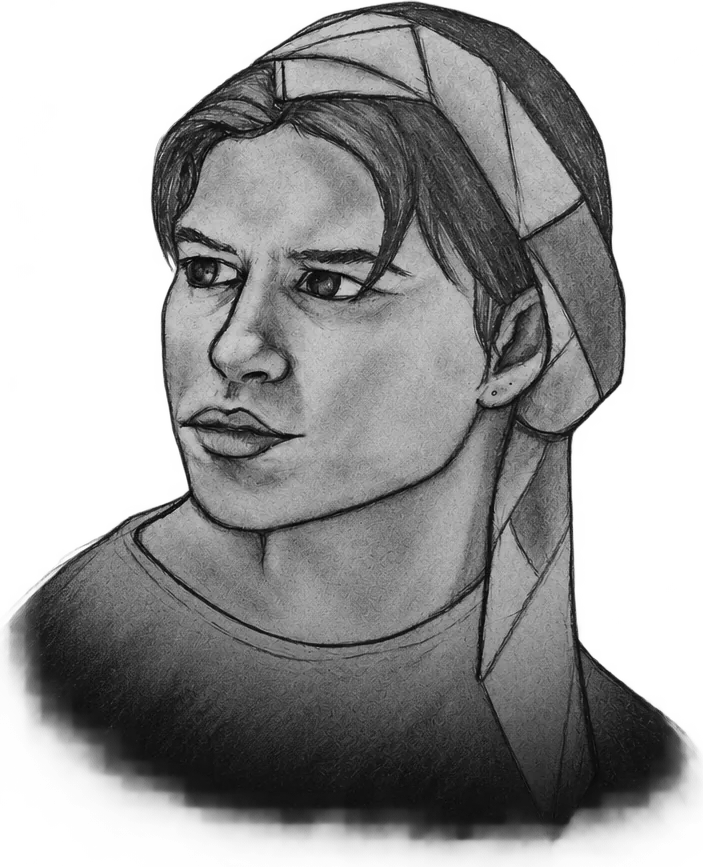
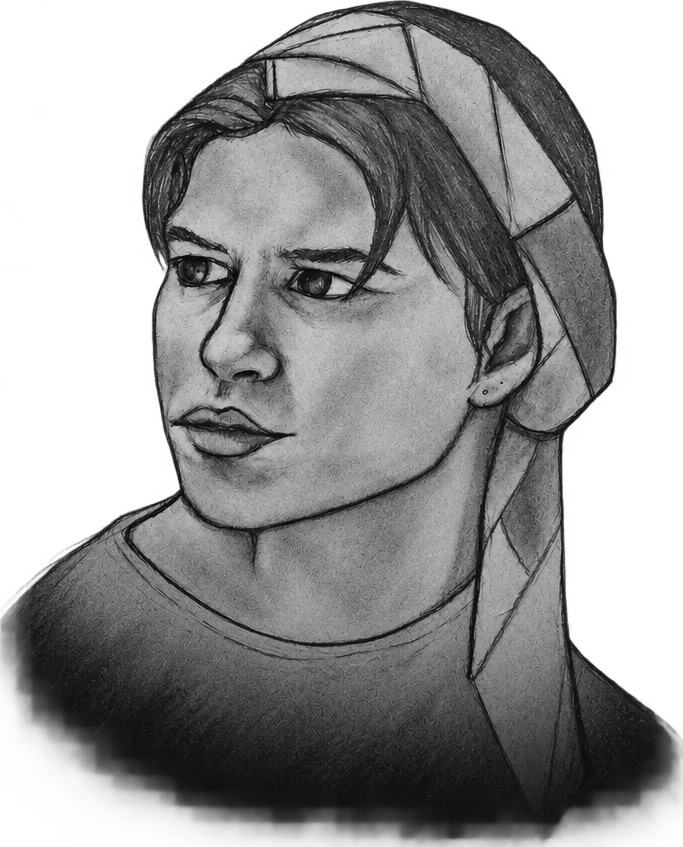
Corregir el recorte y encuadre de los identikits
El trim() de scripts/identikits.mjs usaba el threshold default (10),
demasiado sensible a un pixel suelto cerca de un borde: recortaba ese
lado casi nada y el otro entero, descentrando el dibujo aunque el
original no lo estuviera. Threshold en 50 y se regeneran los nueve
identikits desde el PNG fuente.

La ficha usaba object-fit: contain con object-position: bottom, que
deja un hueco arriba cuando el aspect ratio del dibujo no coincide
con el de la tarjeta. Cover + center llena la tarjeta siempre.

Changed region(s): [[0.0, 0.0, 1.0, 1.0], [0.7687, 0.8902, 0.7994, 0.9209]]

diff --git a/src/components/landing/SuspectFigure.tsx b/src/components/landing/SuspectFigure.tsx
@@ -45,7 +45,7 @@ export function SuspectFigure({
         alt={`Identikit de ${option.name}`}
         fill
         className="identikit-fade"
-        style={{ objectFit: "contain", objectPosition: "bottom" }}
+        style={{ objectFit: "cover", objectPosition: "center" }}
         sizes="(min-width: 720px) 280px, 62vw"
         draggable={false}
       />
